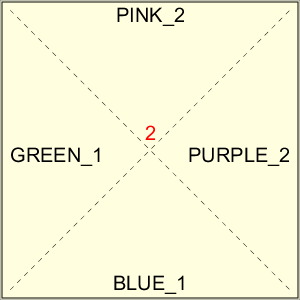
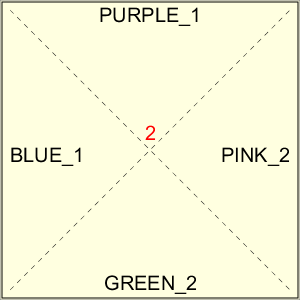
Corrected Crazy9KetnerOwlsConfig

diff --git a/html-output/Crazy9KetnerOwls/allSolutions.html b/html-output/Crazy9KetnerOwls/allSolutions.html
@@ -71,7 +71,7 @@ a+' xmlns="urn:schemas-microsoft.com:vml" class="rvml">')}}}())})(jQuery);
 	<tr>
 		<td><img src="card1.png" class ="r0" alt="1-r0"></td>
 		<td><img src="card2.png" class ="r0" alt="2-r0"></td>
-		<td><img src="card9.png" class ="r90" alt="9-r90"></td>
+		<td><img src="card8.png" class ="r0" alt="8-r0"></td>
 	</tr>
 	<tr>
 		<td><img src="card4.png" class ="r0" alt="4-r0"></td>
@@ -80,76 +80,42 @@ a+' xmlns="urn:schemas-microsoft.com:vml" class="rvml">')}}}())})(jQuery);
 	</tr>
 	<tr>
 		<td><img src="card7.png" class ="r0" alt="7-r0"></td>
-		<td><img src="card8.png" class ="r0" alt="8-r0"></td>
-		<td><img src="card3.png" class ="r270" alt="3-r270"></td>
-	</tr>
-</table>
-<table>
-	<tr>
-		<td><img src="card1.png" class ="r270" alt="1-r270"></td>
-		<td><img src="card3.png" class ="r270" alt="3-r270"></td>
-		<td><img src="card6.png" class ="r270" alt="6-r270"></td>
-	</tr>
-	<tr>
-		<td><img src="card7.png" class ="r0" alt="7-r0"></td>
-		<td><img src="card2.png" class ="r270" alt="2-r270"></td>
-		<td><img src="card5.png" class ="r270" alt="5-r270"></td>
-	</tr>
-	<tr>
+		<td><img src="card3.png" class ="r0" alt="3-r0"></td>
 		<td><img src="card9.png" class ="r0" alt="9-r0"></td>
-		<td><img src="card8.png" class ="r0" alt="8-r0"></td>
-		<td><img src="card4.png" class ="r270" alt="4-r270"></td>
-	</tr>
-</table>
-<table>
-	<tr>
-		<td><img src="card1.png" class ="r270" alt="1-r270"></td>
-		<td><img src="card9.png" class ="r0" alt="9-r0"></td>
-		<td><img src="card6.png" class ="r270" alt="6-r270"></td>
-	</tr>
-	<tr>
-		<td><img src="card7.png" class ="r0" alt="7-r0"></td>
-		<td><img src="card2.png" class ="r270" alt="2-r270"></td>
-		<td><img src="card5.png" class ="r270" alt="5-r270"></td>
-	</tr>
-	<tr>
-		<td><img src="card3.png" class ="r270" alt="3-r270"></td>
-		<td><img src="card8.png" class ="r0" alt="8-r0"></td>
-		<td><img src="card4.png" class ="r270" alt="4-r270"></td>
 	</tr>
 </table>
 <table>
 	<tr>
 		<td><img src="card3.png" class ="r0" alt="3-r0"></td>
-		<td><img src="card7.png" class ="r90" alt="7-r90"></td>
-		<td><img src="card1.png" class ="r0" alt="1-r0"></td>
-	</tr>
-	<tr>
-		<td><img src="card8.png" class ="r90" alt="8-r90"></td>
 		<td><img src="card2.png" class ="r0" alt="2-r0"></td>
-		<td><img src="card9.png" class ="r90" alt="9-r90"></td>
+		<td><img src="card6.png" class ="r0" alt="6-r0"></td>
 	</tr>
 	<tr>
-		<td><img src="card4.png" class ="r0" alt="4-r0"></td>
-		<td><img src="card5.png" class ="r0" alt="5-r0"></td>
-		<td><img src="card6.png" class ="r0" alt="6-r0"></td>
+		<td><img src="card7.png" class ="r90" alt="7-r90"></td>
+		<td><img src="card4.png" class ="r90" alt="4-r90"></td>
+		<td><img src="card1.png" class ="r90" alt="1-r90"></td>
+	</tr>
+	<tr>
+		<td><img src="card8.png" class ="r90" alt="8-r90"></td>
+		<td><img src="card5.png" class ="r90" alt="5-r90"></td>
+		<td><img src="card9.png" class ="r90" alt="9-r90"></td>
 	</tr>
 </table>
 <table>
 	<tr>
-		<td><img src="card3.png" class ="r90" alt="3-r90"></td>
-		<td><img src="card8.png" class ="r180" alt="8-r180"></td>
+		<td><img src="card3.png" class ="r180" alt="3-r180"></td>
 		<td><img src="card7.png" class ="r180" alt="7-r180"></td>
+		<td><img src="card8.png" class ="r90" alt="8-r90"></td>
 	</tr>
 	<tr>
-		<td><img src="card6.png" class ="r180" alt="6-r180"></td>
 		<td><img src="card5.png" class ="r180" alt="5-r180"></td>
 		<td><img src="card4.png" class ="r180" alt="4-r180"></td>
+		<td><img src="card2.png" class ="r90" alt="2-r90"></td>
 	</tr>
 	<tr>
-		<td><img src="card9.png" class ="r270" alt="9-r270"></td>
-		<td><img src="card2.png" class ="r180" alt="2-r180"></td>
+		<td><img src="card9.png" class ="r180" alt="9-r180"></td>
 		<td><img src="card1.png" class ="r180" alt="1-r180"></td>
+		<td><img src="card6.png" class ="r90" alt="6-r90"></td>
 	</tr>
 </table>
 <table>
@@ -171,70 +137,36 @@ a+' xmlns="urn:schemas-microsoft.com:vml" class="rvml">')}}}())})(jQuery);
 </table>
 <table>
 	<tr>
-		<td><img src="card4.png" class ="r90" alt="4-r90"></td>
-		<td><img src="card8.png" class ="r180" alt="8-r180"></td>
-		<td><img src="card3.png" class ="r90" alt="3-r90"></td>
+		<td><img src="card6.png" class ="r270" alt="6-r270"></td>
+		<td><img src="card1.png" class ="r0" alt="1-r0"></td>
+		<td><img src="card9.png" class ="r0" alt="9-r0"></td>
 	</tr>
 	<tr>
-		<td><img src="card5.png" class ="r90" alt="5-r90"></td>
-		<td><img src="card2.png" class ="r90" alt="2-r90"></td>
-		<td><img src="card7.png" class ="r180" alt="7-r180"></td>
+		<td><img src="card2.png" class ="r270" alt="2-r270"></td>
+		<td><img src="card4.png" class ="r0" alt="4-r0"></td>
+		<td><img src="card5.png" class ="r0" alt="5-r0"></td>
 	</tr>
 	<tr>
-		<td><img src="card6.png" class ="r90" alt="6-r90"></td>
-		<td><img src="card9.png" class ="r180" alt="9-r180"></td>
-		<td><img src="card1.png" class ="r90" alt="1-r90"></td>
-	</tr>
-</table>
-<table>
-	<tr>
-		<td><img src="card4.png" class ="r90" alt="4-r90"></td>
-		<td><img src="card8.png" class ="r180" alt="8-r180"></td>
-		<td><img src="card9.png" class ="r180" alt="9-r180"></td>
-	</tr>
-	<tr>
-		<td><img src="card5.png" class ="r90" alt="5-r90"></td>
-		<td><img src="card2.png" class ="r90" alt="2-r90"></td>
-		<td><img src="card7.png" class ="r180" alt="7-r180"></td>
-	</tr>
-	<tr>
-		<td><img src="card6.png" class ="r90" alt="6-r90"></td>
-		<td><img src="card3.png" class ="r90" alt="3-r90"></td>
-		<td><img src="card1.png" class ="r90" alt="1-r90"></td>
+		<td><img src="card3.png" class ="r270" alt="3-r270"></td>
+		<td><img src="card7.png" class ="r0" alt="7-r0"></td>
+		<td><img src="card8.png" class ="r0" alt="8-r0"></td>
 	</tr>
 </table>
 <table>
 	<tr>
-		<td><img src="card6.png" class ="r180" alt="6-r180"></td>
-		<td><img src="card5.png" class ="r180" alt="5-r180"></td>
-		<td><img src="card4.png" class ="r180" alt="4-r180"></td>
+		<td><img src="card6.png" class ="r270" alt="6-r270"></td>
+		<td><img src="card1.png" class ="r0" alt="1-r0"></td>
+		<td><img src="card9.png" class ="r0" alt="9-r0"></td>
 	</tr>
 	<tr>
-		<td><img src="card3.png" class ="r180" alt="3-r180"></td>
-		<td><img src="card2.png" class ="r180" alt="2-r180"></td>
+		<td><img src="card2.png" class ="r270" alt="2-r270"></td>
+		<td><img src="card4.png" class ="r0" alt="4-r0"></td>
+		<td><img src="card5.png" class ="r0" alt="5-r0"></td>
+	</tr>
+	<tr>
 		<td><img src="card8.png" class ="r270" alt="8-r270"></td>
-	</tr>
-	<tr>
-		<td><img src="card1.png" class ="r180" alt="1-r180"></td>
-		<td><img src="card7.png" class ="r270" alt="7-r270"></td>
-		<td><img src="card9.png" class ="r270" alt="9-r270"></td>
-	</tr>
-</table>
-<table>
-	<tr>
-		<td><img src="card6.png" class ="r180" alt="6-r180"></td>
-		<td><img src="card5.png" class ="r180" alt="5-r180"></td>
-		<td><img src="card4.png" class ="r180" alt="4-r180"></td>
-	</tr>
-	<tr>
-		<td><img src="card9.png" class ="r270" alt="9-r270"></td>
-		<td><img src="card2.png" class ="r180" alt="2-r180"></td>
-		<td><img src="card8.png" class ="r270" alt="8-r270"></td>
-	</tr>
-	<tr>
-		<td><img src="card1.png" class ="r180" alt="1-r180"></td>
-		<td><img src="card7.png" class ="r270" alt="7-r270"></td>
-		<td><img src="card3.png" class ="r180" alt="3-r180"></td>
+		<td><img src="card7.png" class ="r0" alt="7-r0"></td>
+		<td><img src="card3.png" class ="r0" alt="3-r0"></td>
 	</tr>
 </table>
 <table>
@@ -244,14 +176,14 @@ a+' xmlns="urn:schemas-microsoft.com:vml" class="rvml">')}}}())})(jQuery);
 		<td><img src="card1.png" class ="r90" alt="1-r90"></td>
 	</tr>
 	<tr>
-		<td><img src="card8.png" class ="r90" alt="8-r90"></td>
+		<td><img src="card3.png" class ="r90" alt="3-r90"></td>
 		<td><img src="card5.png" class ="r90" alt="5-r90"></td>
 		<td><img src="card2.png" class ="r90" alt="2-r90"></td>
 	</tr>
 	<tr>
-		<td><img src="card3.png" class ="r0" alt="3-r0"></td>
+		<td><img src="card9.png" class ="r90" alt="9-r90"></td>
 		<td><img src="card6.png" class ="r90" alt="6-r90"></td>
-		<td><img src="card9.png" class ="r180" alt="9-r180"></td>
+		<td><img src="card8.png" class ="r90" alt="8-r90"></td>
 	</tr>
 </table>
 <table>
@@ -273,14 +205,48 @@ a+' xmlns="urn:schemas-microsoft.com:vml" class="rvml">')}}}())})(jQuery);
 </table>
 <table>
 	<tr>
-		<td><img src="card9.png" class ="r0" alt="9-r0"></td>
+		<td><img src="card8.png" class ="r0" alt="8-r0"></td>
+		<td><img src="card2.png" class ="r0" alt="2-r0"></td>
+		<td><img src="card6.png" class ="r0" alt="6-r0"></td>
+	</tr>
+	<tr>
+		<td><img src="card7.png" class ="r90" alt="7-r90"></td>
+		<td><img src="card4.png" class ="r90" alt="4-r90"></td>
+		<td><img src="card1.png" class ="r90" alt="1-r90"></td>
+	</tr>
+	<tr>
+		<td><img src="card3.png" class ="r90" alt="3-r90"></td>
+		<td><img src="card5.png" class ="r90" alt="5-r90"></td>
+		<td><img src="card9.png" class ="r90" alt="9-r90"></td>
+	</tr>
+</table>
+<table>
+	<tr>
+		<td><img src="card8.png" class ="r180" alt="8-r180"></td>
+		<td><img src="card7.png" class ="r180" alt="7-r180"></td>
+		<td><img src="card3.png" class ="r90" alt="3-r90"></td>
+	</tr>
+	<tr>
+		<td><img src="card5.png" class ="r180" alt="5-r180"></td>
+		<td><img src="card4.png" class ="r180" alt="4-r180"></td>
+		<td><img src="card2.png" class ="r90" alt="2-r90"></td>
+	</tr>
+	<tr>
+		<td><img src="card9.png" class ="r180" alt="9-r180"></td>
+		<td><img src="card1.png" class ="r180" alt="1-r180"></td>
+		<td><img src="card6.png" class ="r90" alt="6-r90"></td>
+	</tr>
+</table>
+<table>
+	<tr>
+		<td><img src="card8.png" class ="r270" alt="8-r270"></td>
 		<td><img src="card6.png" class ="r270" alt="6-r270"></td>
-		<td><img src="card3.png" class ="r180" alt="3-r180"></td>
+		<td><img src="card9.png" class ="r270" alt="9-r270"></td>
 	</tr>
 	<tr>
 		<td><img src="card2.png" class ="r270" alt="2-r270"></td>
 		<td><img src="card5.png" class ="r270" alt="5-r270"></td>
-		<td><img src="card8.png" class ="r270" alt="8-r270"></td>
+		<td><img src="card3.png" class ="r270" alt="3-r270"></td>
 	</tr>
 	<tr>
 		<td><img src="card1.png" class ="r270" alt="1-r270"></td>
@@ -290,19 +256,19 @@ a+' xmlns="urn:schemas-microsoft.com:vml" class="rvml">')}}}())})(jQuery);
 </table>
 <table>
 	<tr>
-		<td><img src="card9.png" class ="r90" alt="9-r90"></td>
-		<td><img src="card7.png" class ="r90" alt="7-r90"></td>
-		<td><img src="card1.png" class ="r0" alt="1-r0"></td>
+		<td><img src="card9.png" class ="r180" alt="9-r180"></td>
+		<td><img src="card3.png" class ="r180" alt="3-r180"></td>
+		<td><img src="card7.png" class ="r180" alt="7-r180"></td>
 	</tr>
 	<tr>
-		<td><img src="card8.png" class ="r90" alt="8-r90"></td>
-		<td><img src="card2.png" class ="r0" alt="2-r0"></td>
-		<td><img src="card3.png" class ="r0" alt="3-r0"></td>
+		<td><img src="card6.png" class ="r180" alt="6-r180"></td>
+		<td><img src="card5.png" class ="r180" alt="5-r180"></td>
+		<td><img src="card4.png" class ="r180" alt="4-r180"></td>
 	</tr>
 	<tr>
-		<td><img src="card4.png" class ="r0" alt="4-r0"></td>
-		<td><img src="card5.png" class ="r0" alt="5-r0"></td>
-		<td><img src="card6.png" class ="r0" alt="6-r0"></td>
+		<td><img src="card8.png" class ="r180" alt="8-r180"></td>
+		<td><img src="card2.png" class ="r180" alt="2-r180"></td>
+		<td><img src="card1.png" class ="r180" alt="1-r180"></td>
 	</tr>
 </table>
 <table>
@@ -320,6 +286,40 @@ a+' xmlns="urn:schemas-microsoft.com:vml" class="rvml">')}}}())})(jQuery);
 		<td><img src="card3.png" class ="r180" alt="3-r180"></td>
 		<td><img src="card2.png" class ="r180" alt="2-r180"></td>
 		<td><img src="card1.png" class ="r180" alt="1-r180"></td>
+	</tr>
+</table>
+<table>
+	<tr>
+		<td><img src="card9.png" class ="r270" alt="9-r270"></td>
+		<td><img src="card5.png" class ="r270" alt="5-r270"></td>
+		<td><img src="card3.png" class ="r270" alt="3-r270"></td>
+	</tr>
+	<tr>
+		<td><img src="card1.png" class ="r270" alt="1-r270"></td>
+		<td><img src="card4.png" class ="r270" alt="4-r270"></td>
+		<td><img src="card7.png" class ="r270" alt="7-r270"></td>
+	</tr>
+	<tr>
+		<td><img src="card6.png" class ="r180" alt="6-r180"></td>
+		<td><img src="card2.png" class ="r180" alt="2-r180"></td>
+		<td><img src="card8.png" class ="r180" alt="8-r180"></td>
+	</tr>
+</table>
+<table>
+	<tr>
+		<td><img src="card9.png" class ="r270" alt="9-r270"></td>
+		<td><img src="card5.png" class ="r270" alt="5-r270"></td>
+		<td><img src="card8.png" class ="r270" alt="8-r270"></td>
+	</tr>
+	<tr>
+		<td><img src="card1.png" class ="r270" alt="1-r270"></td>
+		<td><img src="card4.png" class ="r270" alt="4-r270"></td>
+		<td><img src="card7.png" class ="r270" alt="7-r270"></td>
+	</tr>
+	<tr>
+		<td><img src="card6.png" class ="r180" alt="6-r180"></td>
+		<td><img src="card2.png" class ="r180" alt="2-r180"></td>
+		<td><img src="card3.png" class ="r180" alt="3-r180"></td>
 	</tr>
 </table>
 

diff --git a/html-output/Crazy9KetnerOwls/originalSolutions.html b/html-output/Crazy9KetnerOwls/originalSolutions.html
@@ -69,19 +69,19 @@ a+' xmlns="urn:schemas-microsoft.com:vml" class="rvml">')}}}())})(jQuery);
 </table>
 <table>
 	<tr>
-		<td><img src="card1.png" class ="r270" alt="1-r270"></td>
-		<td><img src="card3.png" class ="r270" alt="3-r270"></td>
-		<td><img src="card6.png" class ="r270" alt="6-r270"></td>
+		<td><img src="card3.png" class ="r0" alt="3-r0"></td>
+		<td><img src="card2.png" class ="r0" alt="2-r0"></td>
+		<td><img src="card6.png" class ="r0" alt="6-r0"></td>
 	</tr>
 	<tr>
-		<td><img src="card7.png" class ="r0" alt="7-r0"></td>
-		<td><img src="card2.png" class ="r270" alt="2-r270"></td>
-		<td><img src="card5.png" class ="r270" alt="5-r270"></td>
+		<td><img src="card7.png" class ="r90" alt="7-r90"></td>
+		<td><img src="card4.png" class ="r90" alt="4-r90"></td>
+		<td><img src="card1.png" class ="r90" alt="1-r90"></td>
 	</tr>
 	<tr>
-		<td><img src="card9.png" class ="r0" alt="9-r0"></td>
-		<td><img src="card8.png" class ="r0" alt="8-r0"></td>
-		<td><img src="card4.png" class ="r270" alt="4-r270"></td>
+		<td><img src="card8.png" class ="r90" alt="8-r90"></td>
+		<td><img src="card5.png" class ="r90" alt="5-r90"></td>
+		<td><img src="card9.png" class ="r90" alt="9-r90"></td>
 	</tr>
 </table>
 

diff --git a/src/main/java/org/whatsoftwarecando/legespiel/configs/Crazy9KetnerOwls.java b/src/main/java/org/whatsoftwarecando/legespiel/configs/Crazy9KetnerOwls.java
@@ -9,7 +9,8 @@ import org.whatsoftwarecando.legespiel.IPicture;
 
 /**
  * Configuration based on Crazy9 Ketner Owls (see
- * http://heye-puzzle.de/product/crazy9-ketner-owls/ )
+ * http://heye-puzzle.de/product/crazy9-ketner-owls/ ). More pictures here:
+ * https://goldkindchen.blogspot.com/2017/03/produktvorstellung-crazy-9-das.html
  */
 public class Crazy9KetnerOwls extends GameConfig {
 
@@ -37,15 +38,16 @@ public class Crazy9KetnerOwls extends GameConfig {
 	@Override
 	protected ArrayList<Card> createAvailableCards() {
 		ArrayList<Card> availableCards = new ArrayList<Card>();
-		availableCards.add(new Card(Picture.BLUE_2, Picture.PURPLE_1, Picture.GREEN_2, Picture.BLUE_1));
-		availableCards.add(new Card(Picture.PINK_2, Picture.GREEN_1, Picture.PURPLE_2, Picture.BLUE_1));
-		availableCards.add(new Card(Picture.BLUE_2, Picture.PURPLE_1, Picture.GREEN_2, Picture.PINK_1));
-		availableCards.add(new Card(Picture.BLUE_2, Picture.GREEN_1, Picture.PINK_2, Picture.PURPLE_1));
-		availableCards.add(new Card(Picture.BLUE_2, Picture.PINK_1, Picture.PURPLE_2, Picture.GREEN_1));
-		availableCards.add(new Card(Picture.PINK_2, Picture.PURPLE_1, Picture.BLUE_2, Picture.GREEN_1));
-		availableCards.add(new Card(Picture.PURPLE_2, Picture.PINK_2, Picture.PINK_1, Picture.GREEN_1));
-		availableCards.add(new Card(Picture.GREEN_2, Picture.PINK_2, Picture.BLUE_1, Picture.PURPLE_1));
-		availableCards.add(new Card(Picture.GREEN_2, Picture.BLUE_2, Picture.PINK_1, Picture.PURPLE_1));
+		// Duplicate cards: 3rd, 8th
+		availableCards.add(new Card(Picture.GREEN_1, Picture.PURPLE_1, Picture.BLUE_2, Picture.PINK_2));
+		availableCards.add(new Card(Picture.PURPLE_1, Picture.BLUE_1, Picture.PINK_2, Picture.GREEN_2));
+		availableCards.add(new Card(Picture.PURPLE_1, Picture.PINK_1, Picture.BLUE_2, Picture.GREEN_2));
+		availableCards.add(new Card(Picture.PINK_1, Picture.GREEN_1, Picture.BLUE_2, Picture.PURPLE_2));
+		availableCards.add(new Card(Picture.GREEN_1, Picture.BLUE_1, Picture.PINK_2, Picture.PURPLE_2));
+		availableCards.add(new Card(Picture.GREEN_1, Picture.PINK_1, Picture.PINK_2, Picture.PURPLE_2));
+		availableCards.add(new Card(Picture.PURPLE_1, Picture.GREEN_1, Picture.PINK_2, Picture.BLUE_2));
+		availableCards.add(new Card(Picture.PURPLE_1, Picture.PINK_1, Picture.BLUE_2, Picture.GREEN_2));
+		availableCards.add(new Card(Picture.PURPLE_1, Picture.BLUE_1, Picture.BLUE_2, Picture.GREEN_2));
 		return availableCards;
 	}
 
